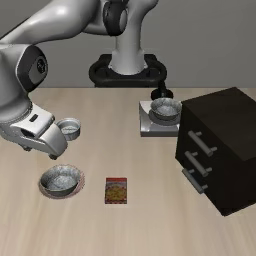
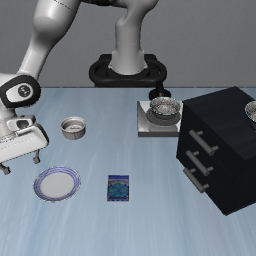
fix infer  bugs

diff --git a/src/lerobot/policies/pi0/modeling_pi0.py b/src/lerobot/policies/pi0/modeling_pi0.py
@@ -879,7 +879,7 @@ class PI0FlowMatching(nn.Module):
         return data_batch
     
     def embed_prefix(
-        self, images, img_masks, lang_tokens, lang_masks
+        self, images, img_masks, 
     ) -> tuple[torch.Tensor, torch.Tensor, torch.Tensor]:
         """Embed images with SigLIP and language tokens with embedding layer to prepare
         for PaliGemma transformer processing.
@@ -912,18 +912,6 @@ class PI0FlowMatching(nn.Module):
             # Create attention masks so that image tokens attend to each other
             att_masks += [0] * num_img_embs
 
-        lang_emb = self.paligemma_with_expert.embed_language_tokens(lang_tokens)
-
-        # Normalize language embeddings
-        lang_emb_dim = lang_emb.shape[-1]
-        lang_emb = lang_emb * math.sqrt(lang_emb_dim)
-        
-        embs.append(lang_emb)
-        pad_masks.append(lang_masks)
-
-        # full attention between image and language inputs
-        num_lang_embs = lang_emb.shape[1]
-        att_masks += [0] * num_lang_embs
         embs = torch.cat(embs, dim=1)
         pad_masks = torch.cat(pad_masks, dim=1)
         att_masks = torch.tensor(att_masks, dtype=torch.bool, device=pad_masks.device)
@@ -1006,6 +994,7 @@ class PI0FlowMatching(nn.Module):
         visual_gen_complete = np.random.rand() < 0.5
 
         data_batch = self.embed_prefix_bagel(batch, unnormalize_outputs)
+
         ret = self.bagel_model(**data_batch, past_key_values=past_key_values, visual_gen_complete=visual_gen_complete)
         
         ## add latent noise to the next image
@@ -1020,8 +1009,12 @@ class PI0FlowMatching(nn.Module):
         images.append(next_image)
         img_masks.append(torch.tensor([1]).bool().cuda())
         prefix_embs, prefix_pad_masks, prefix_att_masks = self.embed_prefix(
-            images, img_masks, lang_tokens, lang_masks
+            images, img_masks, 
         )
+        if torch.cuda.current_device() == 0:
+            import ipdb;ipdb.set_trace()
+        else:
+            while True: pass
         suffix_embs, suffix_pad_masks, suffix_att_masks = self.embed_suffix(state, x_t, time)
       
         pad_masks = torch.cat([prefix_pad_masks, suffix_pad_masks], dim=1)
@@ -1083,6 +1076,7 @@ class PI0FlowMatching(nn.Module):
     def sample_actions(self, images, img_masks, lang_tokens, lang_masks, state, noise=None, batch=None, unnormalize_outputs=None) -> Tensor:
         """Do a full inference forward and compute the action (batch_size x num_steps x num_motors)"""
         device = torch.cuda.current_device()
+        self.dtype = self.state_proj.weight.dtype
         # '''
         if True:
             new_token_ids = self.new_token_ids
@@ -1213,21 +1207,17 @@ class PI0FlowMatching(nn.Module):
                     image_list.append(tmpimage)
                 predict_images = image_list
                 predict_images[0].save('./debug4.png')
-                # import ipdb;ipdb.set_trace()
-            past_key_values.key_cache = past_key_values.key_unnorm_cache
-            bagel_kv_cache = past_key_values
-            bagel_sample_lens = [newlens[-1], -1]
-
         bsize = 1
         device = "cuda"
 
         if noise is None:
             actions_shape = (bsize, self.config.n_action_steps, self.config.max_action_dim)
             noise = self.sample_noise(actions_shape, device)
-        next_image = next_image = F.interpolate(next_image, images[-1].size()[-2:])
+        next_image = F.interpolate(next_image, images[-1].size()[-2:])
         images.append(next_image)
-        data_batch, prefix_embs, prefix_pad_masks, prefix_att_masks = self.embed_prefix(
-            images, img_masks, lang_tokens, lang_masks,
+        img_masks.append(tensor([True]).bool().cuda())
+        prefix_embs, prefix_pad_masks, prefix_att_masks = self.embed_prefix(
+            images, img_masks, 
         )
 
         prefix_position_ids = torch.cumsum(prefix_pad_masks, dim=1) - 1
@@ -1258,8 +1248,8 @@ class PI0FlowMatching(nn.Module):
                 past_key_values,
                 x_t,
                 expanded_time,
-                bagel_kv_cache,
-                bagel_sample_lens,
+                None,
+                None,
                 prefix_offsets,
             )
 

diff --git a/src/lerobot/policies/pi0/paligemma_with_expert.py b/src/lerobot/policies/pi0/paligemma_with_expert.py
@@ -228,7 +228,7 @@ class PaliGemmaWithExpertModel(PreTrainedModel):
             return self.paligemma.model.get_image_features(image)
 
     def embed_language_tokens(self, tokens: torch.Tensor):
-        return self.paligemma.language_model.model.embed_tokens(tokens)
+        return self.paligemma.language_model.embed_tokens(tokens)
 
     # TODO: break down this huge forward into modules or functions
     def forward(
@@ -308,8 +308,8 @@ class PaliGemmaWithExpertModel(PreTrainedModel):
                     # so we create an empty cache, with just one cuda malloc, and if (in autoregressive case) we reach
                     # the max len, then we (for instance) double the cache size. This implementation already exists
                     # in `transformers`. (molbap)
-                    key_states = [past_key_values[layer_idx]["key_states"], key_states]
-                    value_states = [past_key_values[layer_idx]["value_states"], value_states]
+                    key_states = torch.cat([past_key_values[layer_idx]["key_states"], key_states], dim=1)
+                    value_states = torch.cat([past_key_values[layer_idx]["value_states"], value_states], dim=1)
             attention_interface = self.get_attention_interface()
             att_output = attention_interface(
                 attention_mask, batch_size, head_dim, query_states, key_states, value_states

diff --git a/evaluate_libero.py b/evaluate_libero.py
@@ -74,7 +74,7 @@ class Args:
     """Number of rollouts per task."""
 
     # --- Evaluation arguments ---
-    video_out_path: str = "./outputs/video/bagel-full_libero_train-bagel"
+    video_out_path: str = "./outputs/video/bagel-gen-full_libero_action-from-frames"
     """Path to save videos."""
     device: str = "cuda"
     """Device to use for evaluation."""
